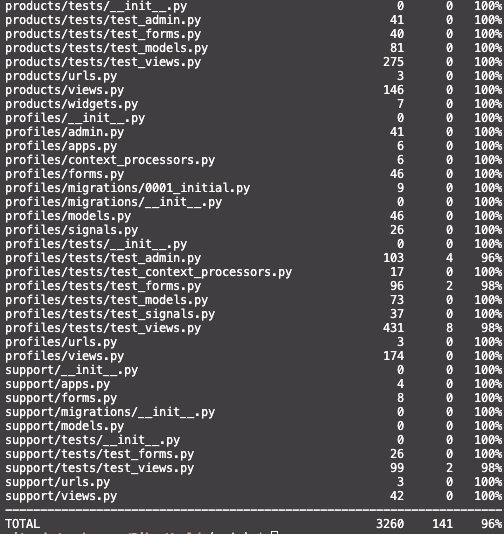
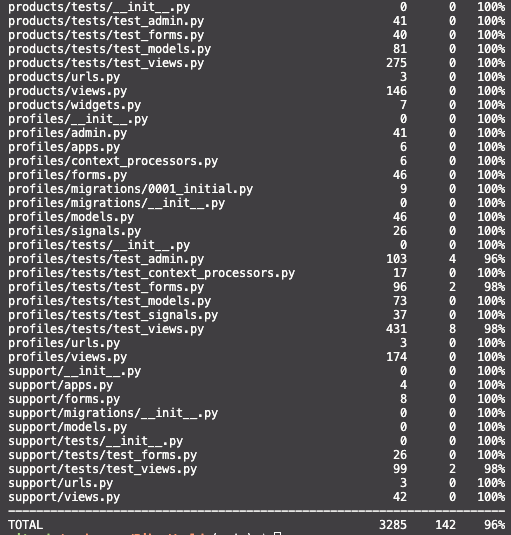
docs: Increase number of automated tests to 233 in testing.md

diff --git a/TESTING.md b/TESTING.md
@@ -43,7 +43,7 @@ The original Google sheet file for the test case report can be found [here](http
 
 Python **Automated Unit Testing** was implemented using the [Django Unit Testing](https://docs.djangoproject.com/en/3.2/topics/testing/overview/) framework.  
 **Unit Tests** have been written to cover all major parts of the code like **Forms**, **Models**, **Views**, **Admin**, **Context-Processors** and **Fields**. The tests were created to cover all key aspects of the code. Only the checkout app has a moderate coverage, but here manual testing was applied.
-A total of **232** **Unit Tests** have been written. All **232** tests ran successfully without errors or warnings.   
+A total of **233** **Unit Tests** have been written. All **233** tests ran successfully without errors or warnings.   
 
 <details>
     <summary>Coverage Automated Testing</summary>
